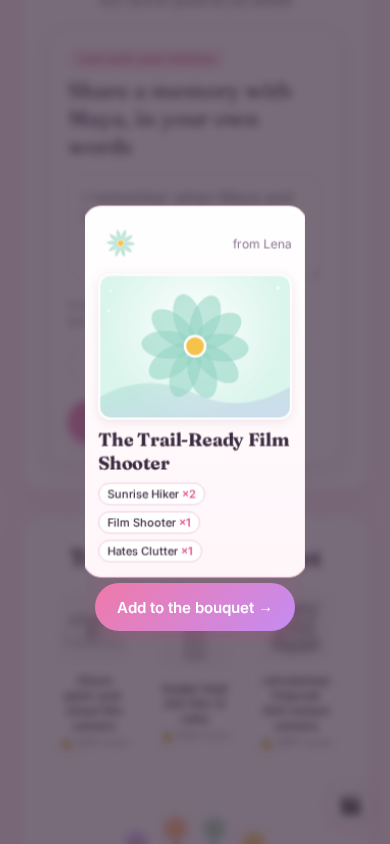
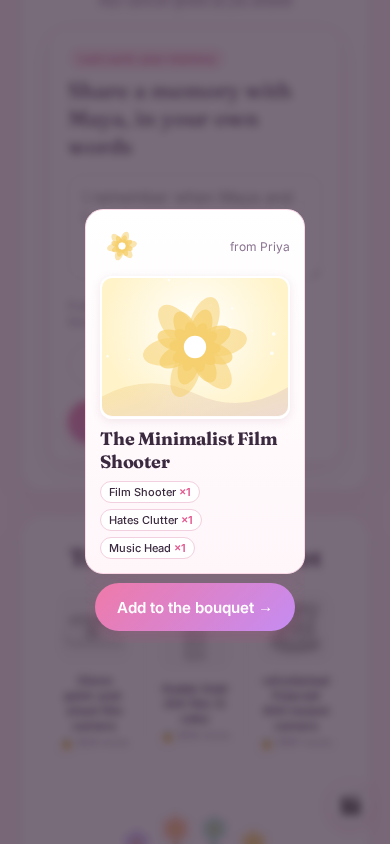
Demo coherence: the late invitee is Priya, matching the video and the seeded cast

diff --git a/e2e/invite.spec.ts b/e2e/invite.spec.ts
@@ -21,7 +21,7 @@ test('invite → one screen → $40 hold as a guest on a 390px phone → optiona
   await expect(p.getByTestId('cf-meta')).toContainText(/\$\d+ for everything.*0 of 2 in.*buy by/);
   await p.getByTestId('cf-amt-40').click(); await expect(p.getByTestId('cf-hold')).toHaveText('Hold $40 with Visa');
   await expect(p.getByTestId('cf-fine')).toContainText('Most you’d pay: $40');
-  await p.fill('input[name=displayName]', 'Lena'); await p.fill('input[name=phone]', '+12065550199');
+  await p.fill('input[name=displayName]', 'Priya'); await p.fill('input[name=phone]', '+12065550199');
   for (const sel of ['input[name=displayName]', 'input[name=phone]', 'input[name=card]', '[data-testid=cf-amount]']) // no iOS zoom on focus
     expect(await p.locator(sel).evaluate(e => parseFloat(getComputedStyle(e).fontSize))).toBeGreaterThanOrEqual(16);
   for (const sel of ['[data-testid=cf-amt-40]', '[data-testid=cf-hold]']) expect((await p.locator(sel).boundingBox())!.height).toBeGreaterThanOrEqual(44);
